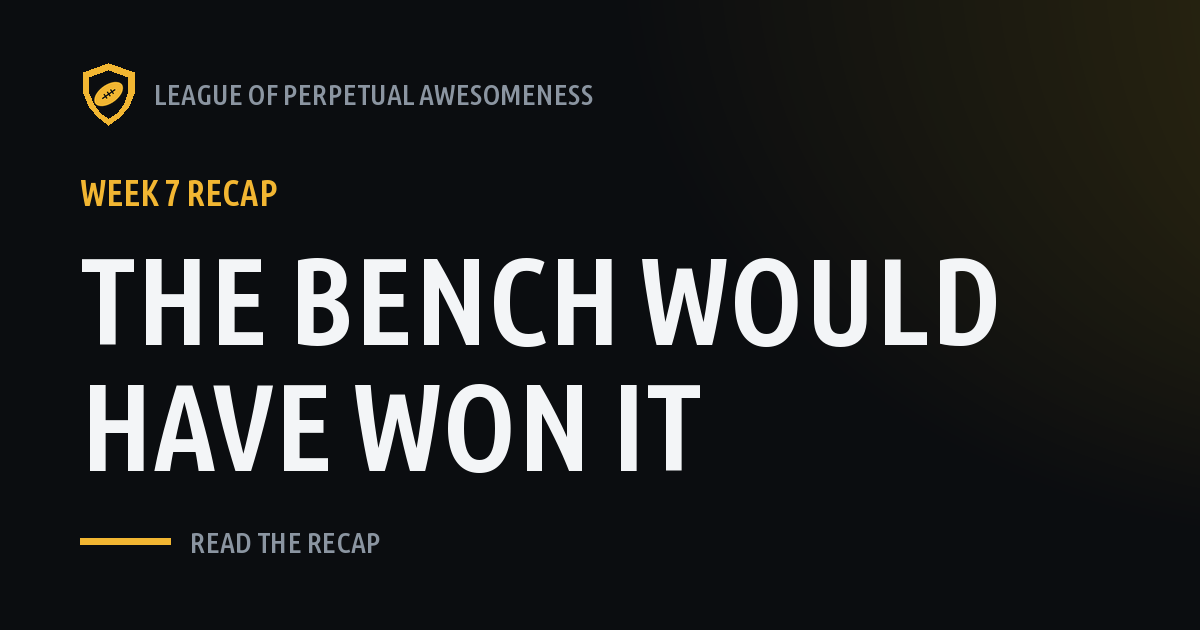
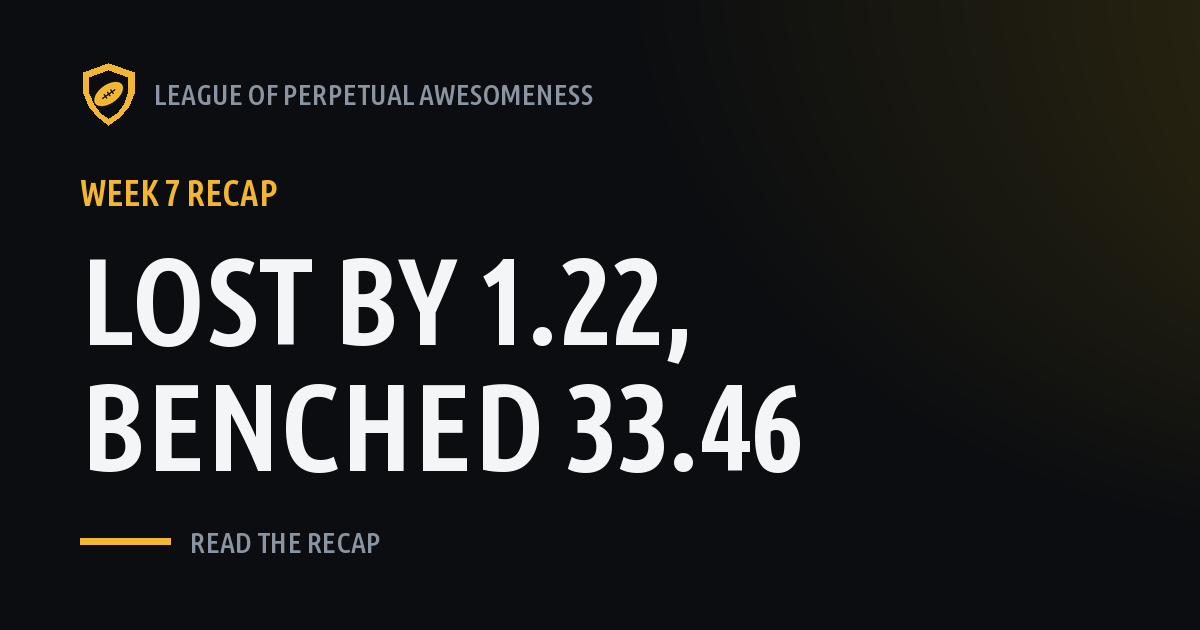
Week 7 recap

Changed region(s): [[0.0617, 0.3921, 0.8325, 0.573], [0.0617, 0.6032, 0.6783, 0.754]]

diff --git a/_posts/2026-10-27-week-7-recap.md b/_posts/2026-10-27-week-7-recap.md
@@ -1,0 +1,50 @@
+---
+layout: post
+title: "Week 7 Recap"
+date: 2026-10-27
+week: 7
+headline: "Lost by 1.22, Benched 33.46"
+description: "Ben Fuller edges Michael Luisi in the closest game of the season while Luisi's bench outscores his lineup, Jonathan Cooper wins ugly again, and Noah Laing finally starts Drake Maye and still loses."
+---
+
+## Game of the Week: Ben Fuller by 1.22
+
+Last week's preview promised a coin flip between two teams going in opposite directions, and it delivered. Ben Fuller beat Michael Luisi **116.48 to 115.26**, a 1.22-point margin and the **closest game of the season**.
+
+Ben wasn't supposed to win this one. He was projected for 104.27 against Luisi's 128.15, and he beat his projection by more than 12 points. Joe Burrow scored 28.88, the best QB score of the week, and CeeDee Lamb added 24.4. Ben's lineup was also perfect: he left **zero points on his bench**, the only manager in the league who can say that this week.
+
+The win snaps Ben's two-game skid, both teams are now 2-5, and the all-time series that was tied 7-7 last week now belongs to Ben, 8-7.
+
+## Bench Blunder of the Week: Michael Luisi
+
+Luisi didn't lose this game to Ben so much as to his own bench. He left **33.46 points** sitting there:
+- Started **Germie Bernard** (5.7) over **Quinshon Judkins** (23.4)
+- Started **A.J. Brown** (7.8) over **Omar Cooper Jr.** (22.5)
+- Started **Jordan Love** (16.96) over **Jared Goff** (18.02)
+
+His best lineup was **148.72**, which beats Ben's 116.48 by plenty. Either of the first two swaps on its own would have won the game. Bernard was a waiver claim on Wednesday who went straight into the lineup; Judkins was already on the roster.
+
+## The Whole League Wants Omar Cooper Jr.
+
+Omar Cooper Jr. was the week's biggest riser, up nearly 30 points in ESPN ownership to 62% of leagues. Luisi has him, which is impressive, because Luisi spent most of the week trying not to:
+- **Wednesday, Oct. 21:** claimed him on waivers
+- **Friday, Oct. 23:** dropped him for Emanuel Wilson
+- **Sunday, Oct. 25:** dropped Wilson and picked Cooper back up
+
+Then he left him on the bench, where he scored 22.5. The league is chasing the right guy. Luisi caught him twice and still didn't start him.
+
+## Jonathan Cooper Wins Ugly, Again
+
+Jonathan Cooper beat Harrison Gross **96.80 to 89.32**. That's a new **season record for the lowest winning score**, breaking the one Cooper set himself last week (100.40). His 96.80 beat only two teams this week; the league median was 115.87.
+
+Cooper got a big day from Tee Higgins (26.8) and not much else, with Patrick Mahomes at 6.0. He was lucky Harrison was even colder: Harrison was projected for 136.28 and finished **46.96 under projection**, the worst miss in the league, with Bryce Young scoring 5.42.
+
+That's three straight wins for Cooper, and he's 5-2 with an all-play record of 29-34. Three of his five wins came with a below-median score. Cooper leads the all-time series with Harrison 14-9.
+
+## Noah Laing Starts Maye, Loses Anyway
+
+For three straight weeks, Drake Maye outscored Brock Purdy from Noah Laing's bench. This week Noah finally started Maye, and Maye delivered **27.44** while Purdy scored 12.02 on the bench. Noah lost anyway.
+
+Jimmy Miller beat him **143.92 to 138.54**, with the week's top score. Tony Pollard scored 36.5, more than 22 points over his projection, and Jimmy snapped a five-game losing streak. He now leads the all-time series with Noah 5-1.
+
+Noah's 138.54 beat every team in the league except Jimmy's, and it's the **highest losing score of the season**. He's lost two straight, and he's no longer alone at the top: Noah, Jonathan Cooper and Hayden McMurrey are all 5-2.
